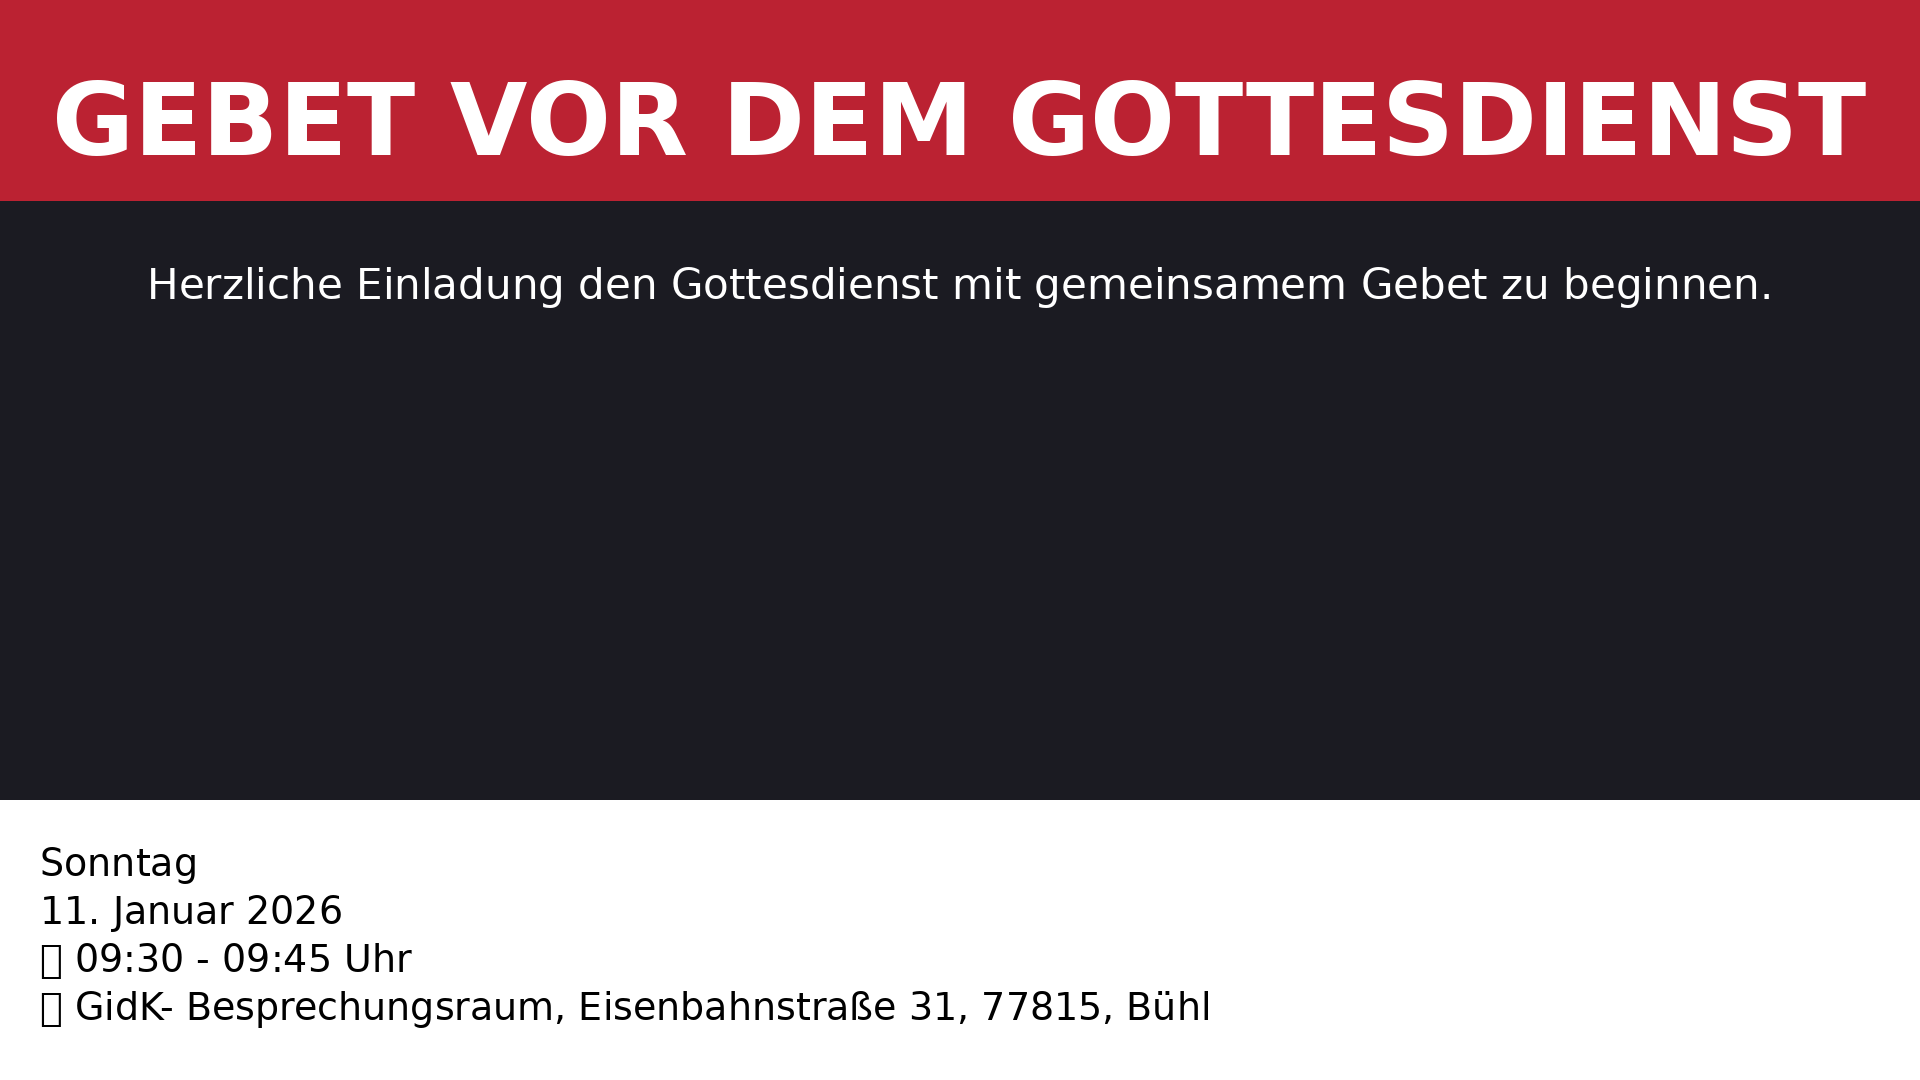
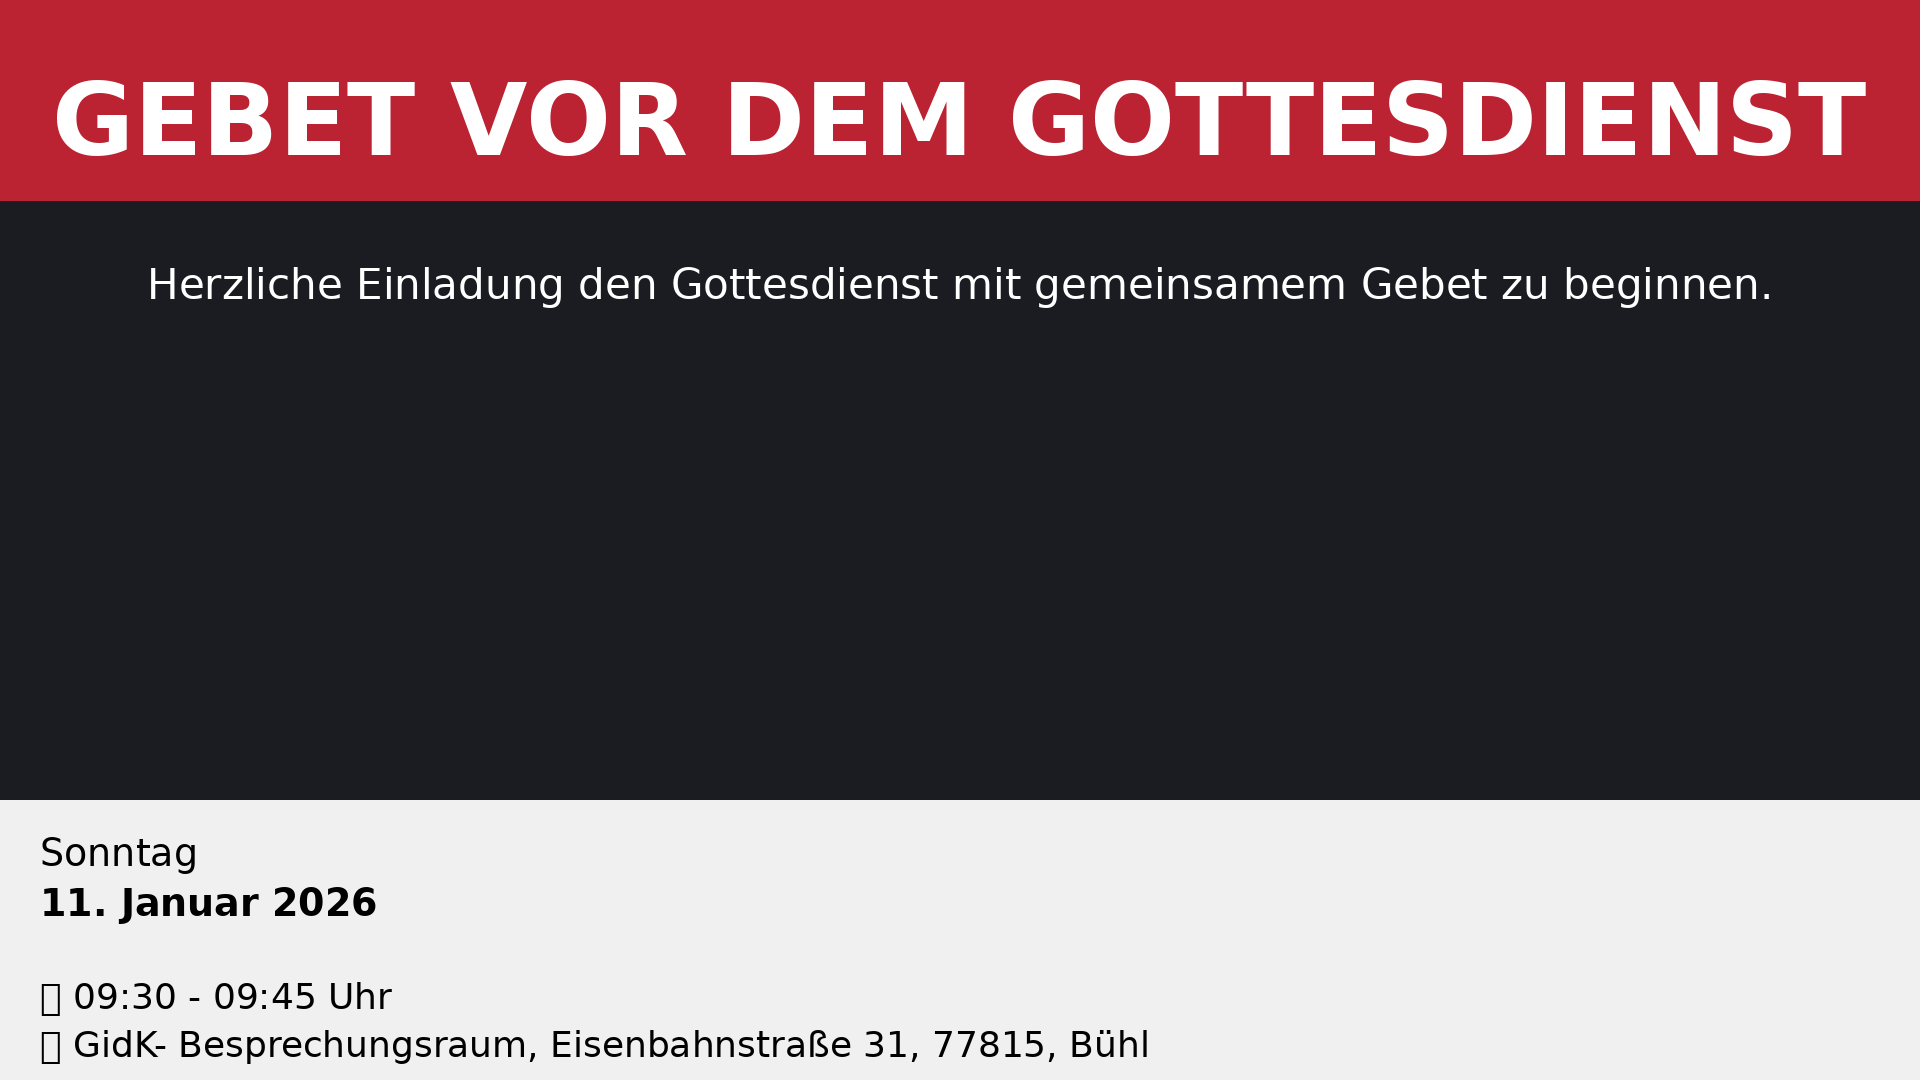
🎨 Verbessere Folien-Layout basierend auf Screenshot-Vorlage
Layout-Änderungen im Footer:
- ✨ Wochentag: Kleinere Schrift (38px), linksbündig
- 📅 Datum: Sehr große prominente Schrift (85px), linksbündig
- 🕐 Uhrzeit: Mit Icon, linksbündig (36px)
- 📍 Ort: Mit Icon, linksbündig (36px)
- 🎨 Footer: Hellgrauer Hintergrund (240,240,240) statt reinweiß
- 📱 QR-Code: Rechts im Footer, vertikal zentriert

Hierarchie verbessert:
- Datum ist jetzt der prominenteste Element im Footer
- Bessere visuelle Hierarchie: Wochentag → Datum → Details
- Konsistentes Spacing zwischen Elementen

Technische Änderungen:
- Neue Hilfsmethode: _draw_left_aligned_text()
- Angepasste Font-Größen für bessere Lesbarkeit
- Optimiertes Footer-Layout für 1920x1080px

Alle 21 Folien neu generiert mit verbessertem Layout.

Changed region(s): [[0.0, 0.7639, 0.625, 0.9778]]

diff --git a/src/generator.py b/src/generator.py
@@ -380,49 +380,54 @@ class SlideGenerator:
         return y
 
     def _draw_footer(self, img: Image.Image, draw: ImageDraw.Draw, event: Dict):
-        """Zeichnet weißen Footer mit Details und QR-Code"""
+        """Zeichnet weißen Footer mit Details und QR-Code (neues Layout)"""
         footer_y = Config.HEIGHT - Config.FOOTER_HEIGHT
 
-        # Weißer Footer-Hintergrund
+        # Hellgrauer Footer-Hintergrund (wie im Screenshot)
         draw.rectangle(
             [(0, footer_y), (Config.WIDTH, Config.HEIGHT)],
-            fill=Config.WEISS
+            fill=(240, 240, 240)  # Hellgrau statt reinweiß
         )
 
         # Formatiere Datum und Zeit
-        date_str = self._format_date(event['dtstart'])
+        wochentag = Config.WOCHENTAGE[event['dtstart'].weekday()]
+        datum = f"{event['dtstart'].day}. {Config.MONATE[event['dtstart'].month]} {event['dtstart'].year}"
         time_str = self._format_time(event['dtstart'], event['dtend'])
         location_str = event['location'] if event['location'] else ''
 
-        # Font
-        font = self.assets.get_font('regular', Config.FOOTER_FONT_SIZE)
+        # Fonts für verschiedene Größen
+        font_wochentag = self.assets.get_font('regular', 38)
+        font_datum = self.assets.get_font('bold', 85)  # Großes Datum wie im Screenshot
+        font_details = self.assets.get_font('regular', 36)
 
-        # Zeichne Footer-Texte (linksbündig)
-        x = Config.FOOTER_PADDING
-        y = footer_y + Config.FOOTER_PADDING
-        line_height = Config.FOOTER_FONT_SIZE + 10
+        # Berechne verfügbare Breite (minus QR-Code Bereich)
+        content_width = Config.WIDTH - Config.QR_SIZE - 3 * Config.FOOTER_PADDING
 
-        # Wochentag
-        draw.text((x, y), date_str.split(',')[0], font=font, fill=Config.SCHWARZ)
-        y += line_height
+        # Y-Position für zentrierten Content
+        y = footer_y + 30
 
-        # Datum
-        draw.text((x, y), date_str.split(', ', 1)[1] if ',' in date_str else date_str,
-                  font=font, fill=Config.SCHWARZ)
-        y += line_height
+        # 1. Wochentag (zentriert, kleinere Schrift)
+        self._draw_left_aligned_text(draw, wochentag, Config.FOOTER_PADDING, y, font_wochentag, Config.SCHWARZ)
+        y += 50
 
-        # Uhrzeit
+        # 2. Datum (zentriert, sehr große Schrift)
+        self._draw_left_aligned_text(draw, datum, Config.FOOTER_PADDING, y, font_datum, Config.SCHWARZ)
+        y += 95
+
+        # 3. Uhrzeit mit Icon
         if time_str:
-            draw.text((x, y), f"🕐 {time_str}", font=font, fill=Config.SCHWARZ)
-            y += line_height
+            # Unicode Clock Icon
+            time_text = f"🕐 {time_str}"
+            self._draw_left_aligned_text(draw, time_text, Config.FOOTER_PADDING, y, font_details, Config.SCHWARZ)
+            y += 48
 
-        # Ort (gekürzt falls zu lang)
+        # 4. Ort mit Icon (gekürzt falls zu lang)
         if location_str:
-            max_location_width = Config.WIDTH - Config.QR_SIZE - 3 * Config.FOOTER_PADDING
-            location_str = self._truncate_text(location_str, font, max_location_width, draw)
-            draw.text((x, y), f"📍 {location_str}", font=font, fill=Config.SCHWARZ)
+            location_str = self._truncate_text(location_str, font_details, content_width - Config.FOOTER_PADDING, draw)
+            location_text = f"📍 {location_str}"
+            self._draw_left_aligned_text(draw, location_text, Config.FOOTER_PADDING, y, font_details, Config.SCHWARZ)
 
-        # QR-Code (rechts unten)
+        # QR-Code (rechts im Footer, zentriert vertikal)
         if self.assets.qr_code:
             qr_x = Config.WIDTH - Config.QR_SIZE - Config.FOOTER_PADDING
             qr_y = footer_y + (Config.FOOTER_HEIGHT - Config.QR_SIZE) // 2
@@ -507,6 +512,10 @@ class SlideGenerator:
         bbox = draw.textbbox((0, 0), text, font=font)
         text_width = bbox[2] - bbox[0]
         x = (Config.WIDTH - text_width) // 2
+        draw.text((x, y), text, font=font, fill=color)
+
+    def _draw_left_aligned_text(self, draw: ImageDraw.Draw, text: str, x: int, y: int, font: ImageFont.FreeTypeFont, color):
+        """Zeichnet linksbündigen Text"""
         draw.text((x, y), text, font=font, fill=color)
 
     def generate_title_slide(self, output_path: str):
